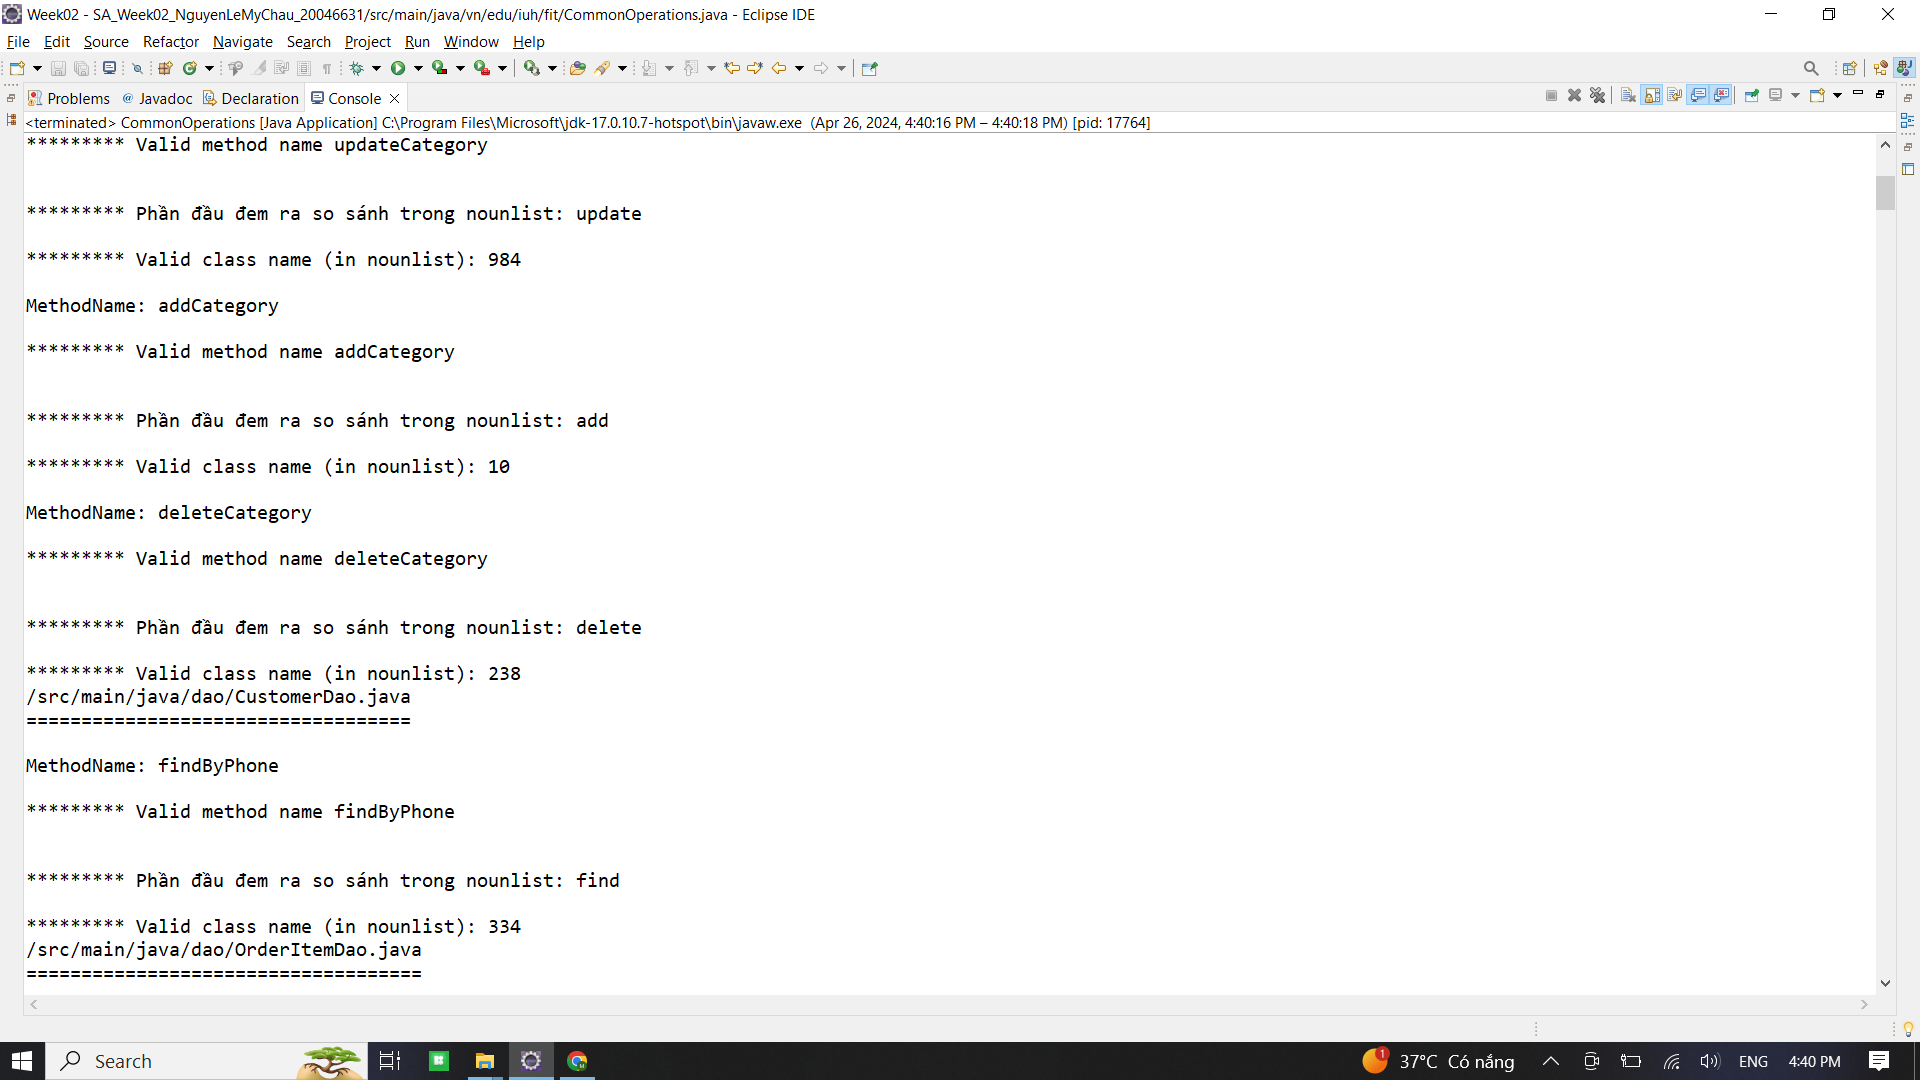
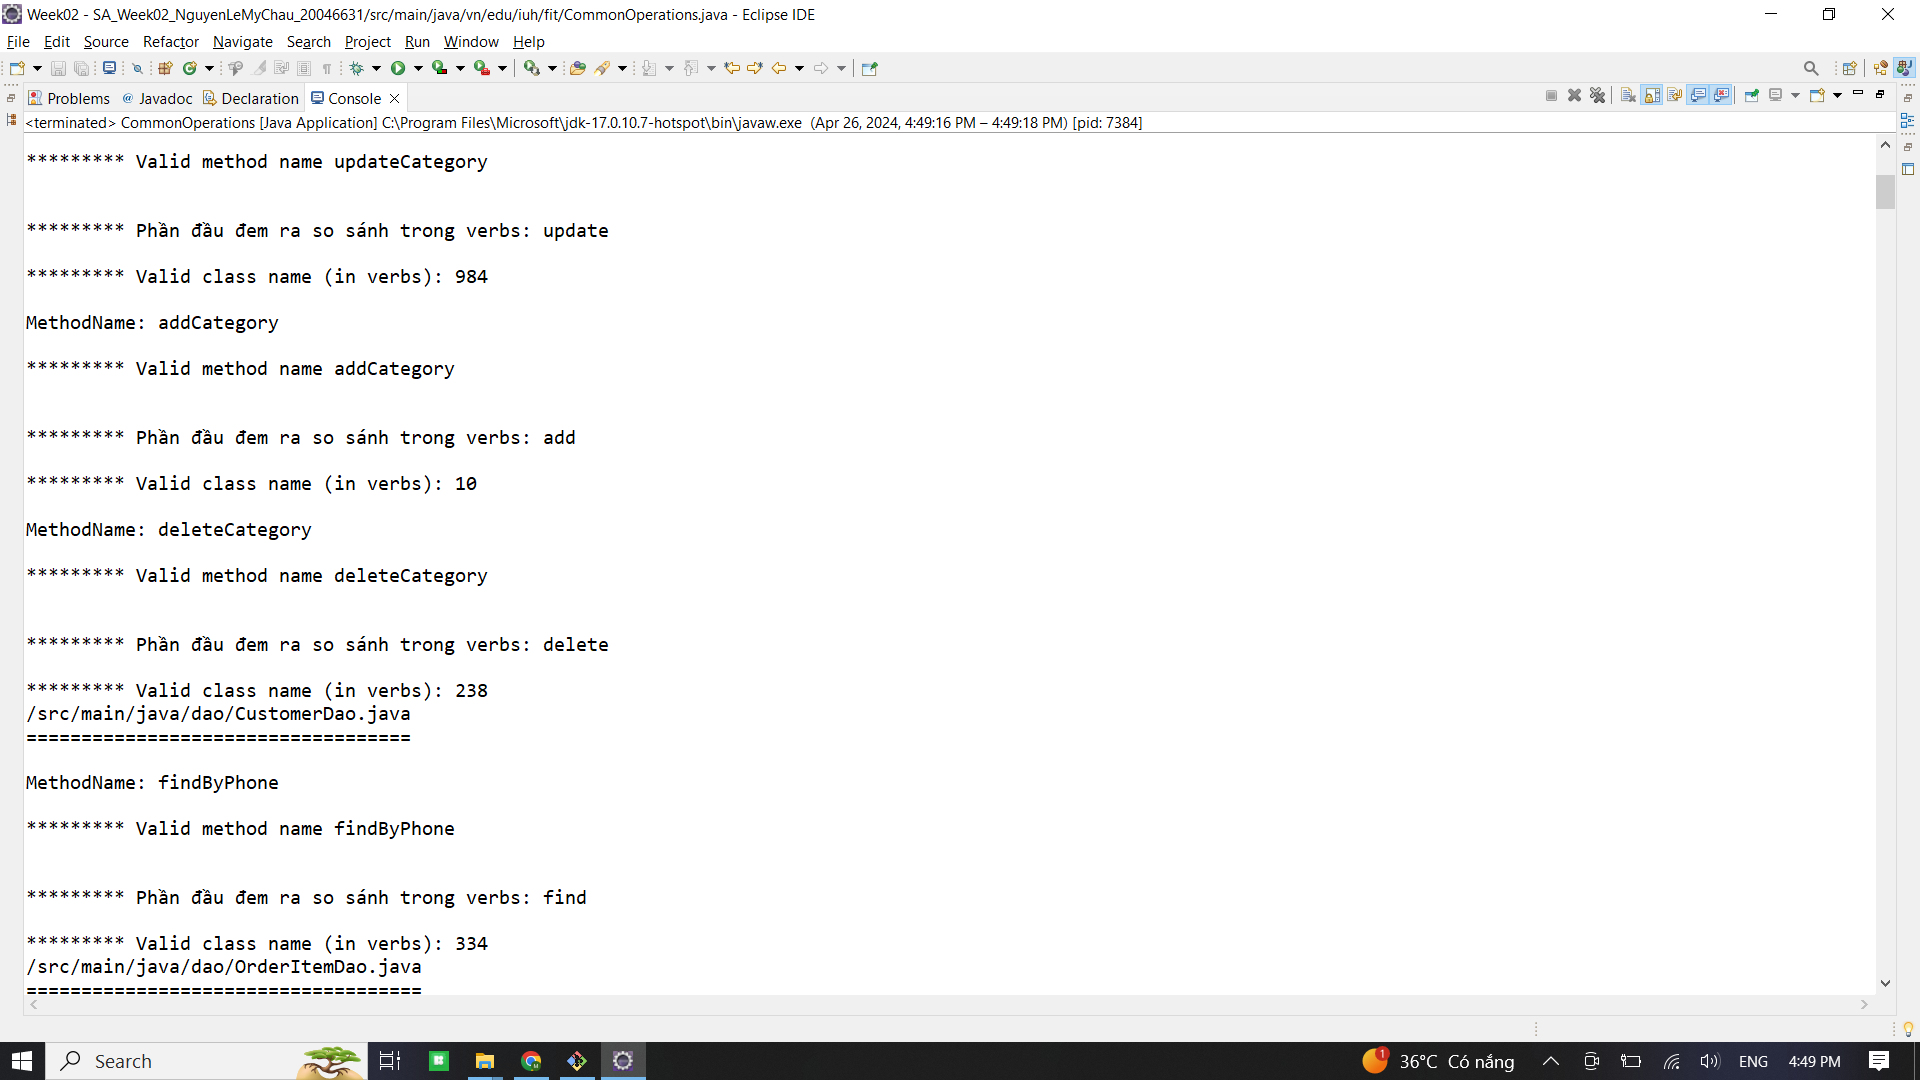
Fix câu 6

diff --git a/src/main/java/vn/edu/iuh/fit/CommonOperations.java b/src/main/java/vn/edu/iuh/fit/CommonOperations.java
@@ -221,15 +221,15 @@ public class CommonOperations {
 							}
 
 							String partName = getFirstPart(methodName);
-							System.out.println("\n********* Phần đầu đem ra so sánh trong nounlist: " + partName);
+							System.out.println("\n********* Phần đầu đem ra so sánh trong verbs: " + partName);
 
 							// Kiểm tra nếu tên lớp nằm trong danh sách từ nounlist
 							if (!verbs.contains(partName)) {
 								int index = verbs.indexOf(partName);
-								System.out.println("\n********* Invalid class name (in nounlist): " + index);
+								System.out.println("\n********* Invalid class name (in verbs): " + index);
 							} else {
 								int index = verbs.indexOf(partName) + 1;
-								System.out.println("\n********* Valid class name (in nounlist): " + index);
+								System.out.println("\n********* Valid class name (in verbs): " + index);
 							}
 						} catch (IOException e) {
 							// TODO Auto-generated catch block
